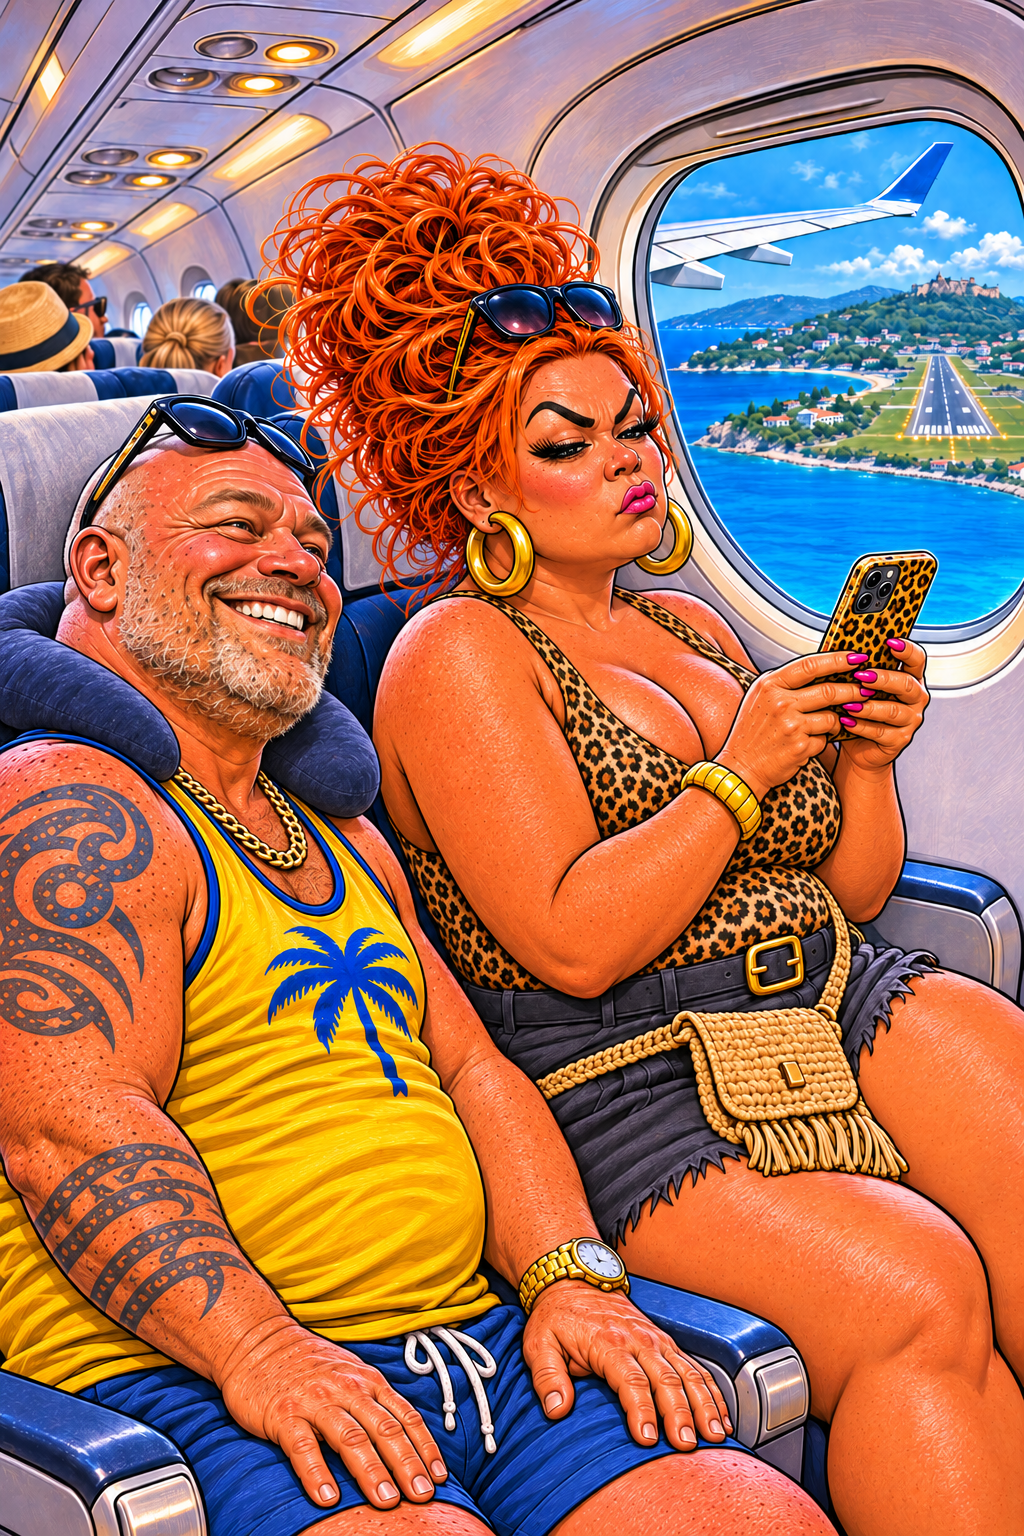
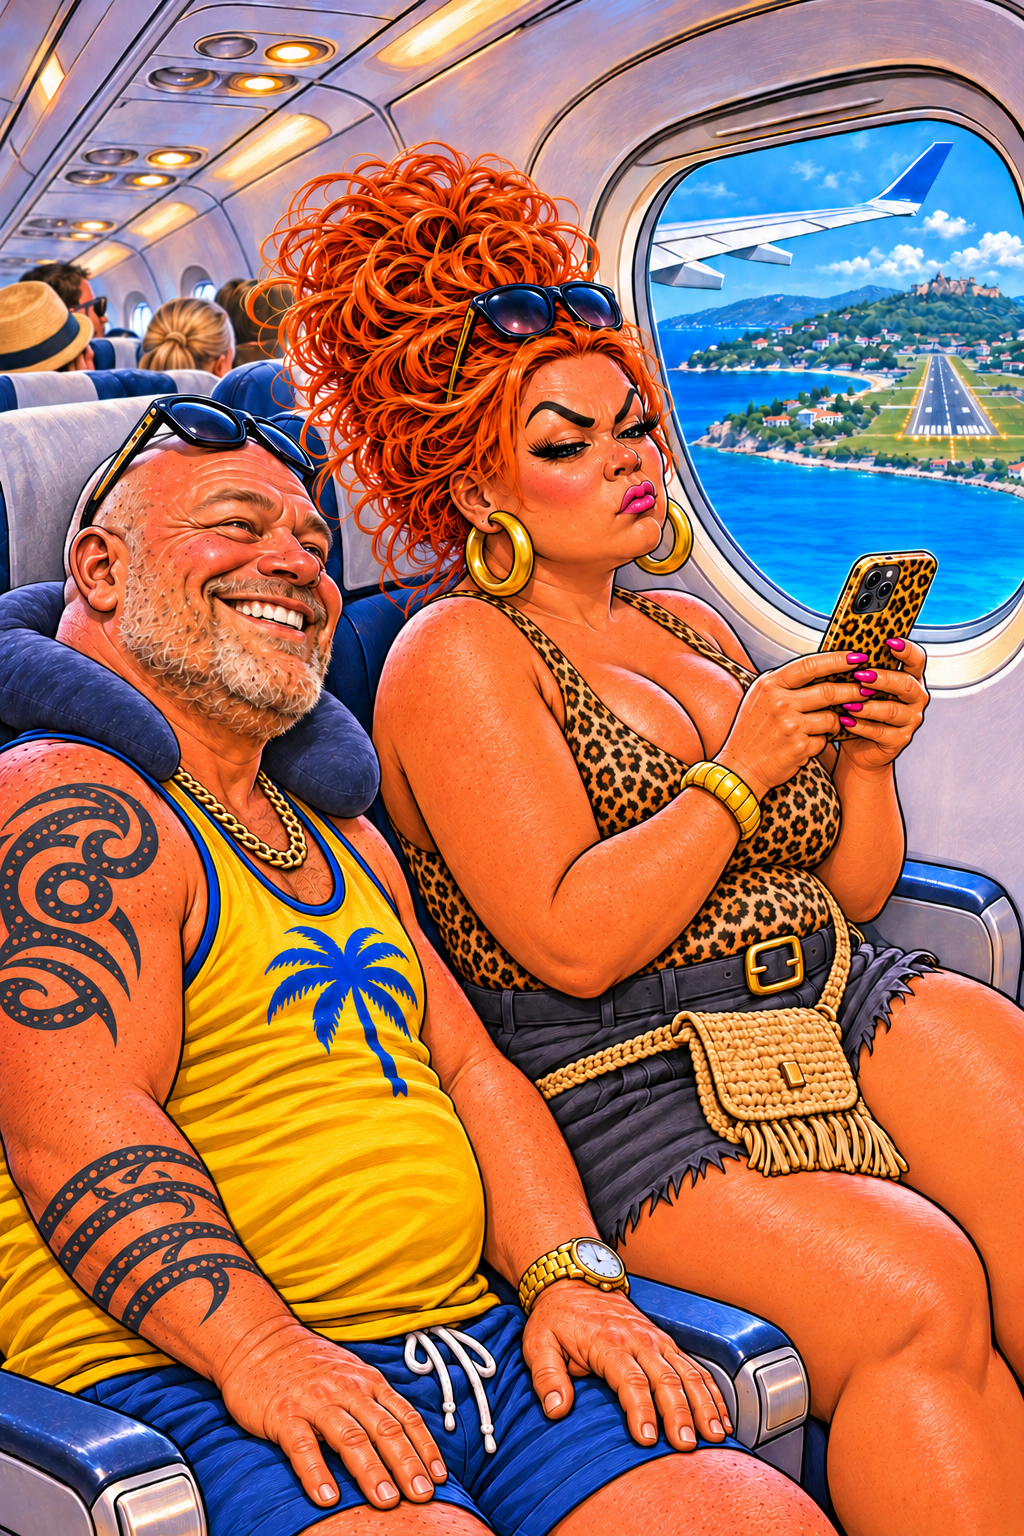
Keep Dave’s tattoos fixed and use the magnet only at the van

diff --git a/index.html b/index.html
@@ -56,8 +56,8 @@ button{font-family:inherit;cursor:pointer}
 .scene{position:relative;flex:1;min-height:0;overflow:hidden;container-type:size}
 .bg{position:absolute;inset:0}
 .gsign{position:absolute;left:18%;right:18%;top:17%;padding:5px 6px;background:#fff;border:3px solid var(--blue);border-radius:6px;text-align:center;color:var(--blue);font-weight:900;font-size:clamp(12px,3.6vw,17px);letter-spacing:.5px;box-shadow:0 3px 0 rgba(0,0,0,.15)}
-.player.bump{animation:bump .35s}
-.player.shake{animation:shake .4s}
+.player-actor.bump{animation:bump .35s}
+.player-actor.shake{animation:shake .4s}
 @keyframes bump{50%{transform:translateY(-12px) scale(1.03)}}
 @keyframes shake{20%,60%{transform:translateX(-8px)}40%,80%{transform:translateX(8px)}}
 
@@ -162,6 +162,20 @@ button{font-family:inherit;cursor:pointer}
   display:block;width:auto;height:100%;max-width:100%;object-fit:contain;object-position:center top;
   filter:drop-shadow(1px 2px 2px rgba(33,24,15,.26));
 }
+.actor.player-actor.dave-composite{
+  width:min(55%,calc(var(--figure-height) * .523));
+}
+.actor.dave-composite img{width:100%;height:auto;max-width:none}
+.dave-composite .dave-expression{
+  position:absolute;inset:0;
+  -webkit-mask-image:radial-gradient(ellipse 23% 13% at 54% 12%,#000 68%,transparent 100%);
+  mask-image:radial-gradient(ellipse 23% 13% at 54% 12%,#000 68%,transparent 100%);
+}
+#end .dave-composite{
+  position:relative;display:inline-block;vertical-align:top;
+  width:min(48%,150px);
+}
+#end .dave-composite img{width:100%;display:block}
 .actor.local{
   left:var(--local-x);top:calc(var(--head-top) + var(--local-drop));
   height:calc(var(--figure-height) * .88);max-width:45%;z-index:1;
@@ -247,7 +261,7 @@ button{font-family:inherit;cursor:pointer}
   <h1>Who are you playing as?</h1>
   <p class="sub" id="selectionNote">This decides whether you learn the man's or woman's form of Greek words.</p>
   <div class="cards">
-    <button class="card" data-c="m"><img src="assets/dave_full.webp" alt=""><div class="nm">Big Dave</div><div class="gr" lang="el">είμαι έτοιμος</div></button>
+    <button class="card" data-c="m"><img src="assets/dave_full_no_magnet.webp" alt=""><div class="nm">Big Dave</div><div class="gr" lang="el">είμαι έτοιμος</div></button>
     <button class="card" data-c="f"><img src="assets/sharon_full.webp" alt=""><div class="nm">Gobby Sharon</div><div class="gr" lang="el">είμαι έτοιμη</div></button>
   </div>
   <button class="btn play go" id="bGo" disabled style="opacity:.5">Let's go!</button>
@@ -271,7 +285,10 @@ button{font-family:inherit;cursor:pointer}
       <span class="airport-board"><span lang="el">ΕΞΟΔΟΣ</span><small>Exit</small></span>
     </div>
     <div class="cast" id="cast" hidden>
-      <div class="actor"><img class="player" id="player" alt=""></div>
+      <div class="actor player-actor" id="playerActor">
+        <img id="daveBody" alt="" hidden>
+        <img id="player" alt="">
+      </div>
       <div class="actor local" id="localActor"><img id="localFigure" alt=""></div>
       <div class="market-counter" aria-hidden="true"></div>
     </div>
@@ -408,7 +425,7 @@ const LOCAL_FIGURES={
 };
 let run, runKey, idx, speaker;
 const steps=[...STORY_STEPS,...CHALLENGE];
-const player=$("#player"), panel=$("#panel");
+const player=$("#player"), playerActor=$("#playerActor"), daveBody=$("#daveBody"), panel=$("#panel");
 const PLAYER_REACTIONS=["pleased","cringe","confused","shocked","talking","fuming"];
 const playerName=()=>S.c==="f"?"sharon":"dave";
 const playerPath=(expression="neutral")=>{
@@ -420,11 +437,15 @@ function react(animation,expression){
     const next=playerPath(expression);
     if(player.getAttribute("src")!==next)player.src=next;
   }
-  player.classList.remove("bump","shake");
-  if(animation){void player.offsetWidth;player.classList.add(animation)}
+  playerActor.classList.remove("bump","shake");
+  if(animation){void playerActor.offsetWidth;playerActor.classList.add(animation)}
 }
 function artPath(name){return name && GAME_ART.includes(name) ? `assets/${name}.webp` : ""}
 function startLesson(){
+  const isDave=S.c==="m";
+  playerActor.classList.toggle("dave-composite",isDave);
+  player.classList.toggle("dave-expression",isDave);
+  daveBody.hidden=!isDave;
   player.src=playerPath();
   for(const expression of PLAYER_REACTIONS){
     const image=new Image();
@@ -482,6 +503,10 @@ function render(){
     localFigure.classList.toggle("mirror",speaker!=="Spyros Rent-a-Van");
     $("#localActor").dataset.character=LOCAL_FIGURES[speaker].replace(/_full$/,"");
     localFigure.alt=speaker;
+  }
+  if(S.c==="m"){
+    const body=artPath(st.prop==="magnet"?"dave_full":"dave_full_no_magnet");
+    if(daveBody.getAttribute("src")!==body)daveBody.src=body;
   }
   react(null,st.kind==="meaning"?"confused":"neutral");
   updateTop();
@@ -844,7 +869,15 @@ function finish(){
   save();
   const w=$("#endWrap"), f=el("img","face");
   f.alt="";f.src=playerPath("pleased");
-  w.replaceChildren(el("h1",null,"Chapter 1 complete"),f,
+  let portrait=f;
+  if(S.c==="m"){
+    portrait=el("div","dave-composite");
+    const body=el("img");
+    body.alt="";body.src=artPath("dave_full_no_magnet");
+    f.className="dave-expression";
+    portrait.append(body,f);
+  }
+  w.replaceChildren(el("h1",null,"Chapter 1 complete"),portrait,
     el("div","score",`Greek challenge: ${"★".repeat(stars)}`),
     el("div","line",`Best · Dave ${starLabel("m")} · Sharon ${starLabel("f")}`),
     phraseList(Object.entries(S.phrases)));

diff --git a/chapter1.js b/chapter1.js
@@ -86,7 +86,7 @@ const CHAPTER={
       why:{m:"έτοιμος is the man's form. Sharon would say έτοιμη.",f:"έτοιμη is the woman's form. Dave would say έτοιμος."},
       badOptions:[{m:"Spyros holds the keys out to Sharon. Dave puts his hand up like he’s back at school.",f:"Spyros holds the keys out to Dave. Sharon intercepts them with one eyebrow."},{m:"Spyros offers Dave the chair. It’s the first thing Dave’s negotiated successfully all morning.",f:"Spyros points Sharon to a chair. She hands Dave the cases and takes the offer."}],
       learn:[{m:"Είμαι έτοιμος",f:"Είμαι έτοιμη"},"I'm ready"]},
-    {id:"legacy-19",t:"narr",text:"{P} slaps two Union Jack magnets on the van doors."},
+    {id:"legacy-19",t:"narr",prop:"magnet",text:"Dave holds up his Union Jack magnets. A minute later there’s one on each van door."},
     {id:"legacy-20",t:"q",kind:"meaning",gr:"Προσέξτε το βαν, σας παρακαλώ!",prompt:"What did Spyros just say?",
       opts:[{en:"Please be careful with the van!",ok:1},{en:"Please bring it back with a full tank!"},{en:"Please park it over there!"}],
       why:"Προσέξτε = be careful, watch out. On signs you'll see ΠΡΟΣΟΧΗ (caution).",

diff --git a/assets/chapter1-art.js b/assets/chapter1-art.js
@@ -1,2 +1,2 @@
 /* Generated by scripts/import-chapter1-art.py. */
-const GAME_ART = ["bg_apartment_kitchen", "bg_apartment_outside", "bg_minimarket", "bg_van_hire", "dave_full", "dave_full_confused", "dave_full_cringe", "dave_full_fuming", "dave_full_pleased", "dave_full_shocked", "dave_full_talking", "eleni_full", "fat_spyros_full", "fig", "intro_1_landing", "intro_2_baggage", "intro_3_arrivals", "kyrios_spyros_full", "sharon_full", "sharon_full_confused", "sharon_full_cringe", "sharon_full_fuming", "sharon_full_pleased", "sharon_full_shocked", "sharon_full_talking", "sharon_shocked", "spyros_van_full", "spyros_van_normal", "title_bg"];
+const GAME_ART = ["bg_apartment_kitchen", "bg_apartment_outside", "bg_minimarket", "bg_van_hire", "dave_full", "dave_full_confused", "dave_full_cringe", "dave_full_fuming", "dave_full_no_magnet", "dave_full_pleased", "dave_full_shocked", "dave_full_talking", "eleni_full", "fat_spyros_full", "fig", "intro_1_landing", "intro_2_baggage", "intro_3_arrivals", "kyrios_spyros_full", "sharon_full", "sharon_full_confused", "sharon_full_cringe", "sharon_full_fuming", "sharon_full_pleased", "sharon_full_shocked", "sharon_full_talking", "sharon_shocked", "spyros_van_full", "spyros_van_normal", "title_bg"];

diff --git a/sw.js b/sw.js
@@ -1,7 +1,7 @@
 importScripts("assets/chapter1-art.js");
 
 const PREFIX = "sidari-quest-";
-const CACHE = PREFIX + "playtest-v7";
+const CACHE = PREFIX + "playtest-v8";
 const SHELL = [
   "./", "index.html", "manifest.json", "chapter1.js", "progress.js",
   "icon-180.png", "icon-192.png", "icon-512.png", "assets/chapter1-art.js"

diff --git a/scripts/import-chapter1-art.py b/scripts/import-chapter1-art.py
@@ -35,7 +35,7 @@ def convert(path, name, size=None, transparent=False, bounds=(1024, 1536)):
         available.append(name)
 
 
-def convert_full_body(path, name, frame=None):
+def convert_full_body(path, name, frame=None, crop=None):
     if not path.is_file():
         return
     with Image.open(path) as master:
@@ -44,7 +44,11 @@ def convert_full_body(path, name, frame=None):
         if alpha.getextrema() != (0, 255):
             raise ValueError(f"{path}: needs transparent margins and an opaque figure")
         image.putalpha(alpha)
-        image = ImageOps.expand(image.crop(alpha.getbbox()), border=16)
+        if crop:
+            bounds = tuple(round(edge * image.size[i % 2]) for i, edge in enumerate(crop))
+        else:
+            bounds = alpha.getbbox()
+        image = ImageOps.expand(image.crop(bounds), border=16)
         if frame:
             image = image.resize(frame, Image.Resampling.LANCZOS)
         else:
@@ -76,6 +80,12 @@ for character in ("dave", "sharon"):
     name = f"{character}_full"
     path = approved / "characters" / f"{name}.png"
     frame = convert_full_body(path if path.is_file() else RAW / "characters" / path.name, name)
+    if character == "dave":
+        with Image.open(path if path.is_file() else RAW / "characters" / path.name) as original:
+            alpha = original.convert("RGBA").getchannel("A")
+            bounds = alpha.point(lambda n: 255 if n >= 8 else 0).getbbox()
+            crop = tuple(edge / original.size[i % 2] for i, edge in enumerate(bounds))
+        convert_full_body(approved / "characters/dave_full_no_magnet.png", "dave_full_no_magnet", frame, crop)
     for reaction in REACTIONS:
         name = f"{character}_full_{reaction}"
         convert_full_body(approved / "characters" / f"{name}.png", name, frame)

diff --git a/tests/playtest.py b/tests/playtest.py
@@ -76,6 +76,13 @@ def play(page, character, *, explore=False, help_on_challenge=False, replay=Fals
         assert page.evaluate("run.step") == step["id"]
         kind = step["t"]
         if page.locator("#cast").is_visible():
+            body = page.locator("#daveBody")
+            if character == "m":
+                expected = "assets/dave_full.webp" if step.get("prop") == "magnet" else "assets/dave_full_no_magnet.webp"
+                assert body.get_attribute("src") == expected
+                page.wait_for_function("document.querySelector('#daveBody').naturalWidth > 0")
+            else:
+                assert body.is_hidden()
             local = page.locator("#localFigure").get_attribute("alt")
             if local not in locals_seen:
                 page.wait_for_function("document.querySelector('#localFigure').naturalWidth > 0")
@@ -111,6 +118,9 @@ def play(page, character, *, explore=False, help_on_challenge=False, replay=Fals
         if kind == "q":
             if explore and step["phrase"] == "morning":
                 option(panel, "Καλή όρεξη!").tap()
+                if character == "m":
+                    assert body.get_attribute("src") == "assets/dave_full_no_magnet.webp"
+                    assert page.locator("#player").get_attribute("src") == "assets/dave_full_cringe.webp"
                 assert panel.get_by_text("YOU SAID: Enjoy your meal!", exact=True).is_visible()
                 assert panel.locator(".said-greek").inner_text() == "Καλή όρεξη!"
                 assert [x.split(" ", 1)[0] for x in panel.locator(".reaction-line").all_inner_texts()] == (

diff --git a/docs/CHAPTER1_ART_PRODUCTION.md b/docs/CHAPTER1_ART_PRODUCTION.md
@@ -4,7 +4,7 @@ The approved [title reference](../art/reference/style_reference_title_screen.png
 
 ## Full-body playtest
 
-Dialogue scenes use six intact full-body assets as the source for closer framing. The dialogue panel hides the lower bodies, and the mini-market counter sits in front of the shopkeeper. Dave uses his existing approved standing design. Sharon has a hands-free standing pose. Spyros Rent-a-Van, Kyria Eleni, Kyrios Spyros and Fat Spyros use the faces and visible clothing from their approved references, extended to full length. Wide location shots establish the setting before the characters move into the foreground for dialogue. Dave and Sharon swap to matching full-figure reactions for correct answers, mistakes and the van price reveal. Expression sprites use the same runtime dimensions as each neutral figure so the dialogue framing stays fixed.
+Dialogue scenes use six intact full-body assets as the source for closer framing. The dialogue panel hides the lower bodies, and the mini-market counter sits in front of the shopkeeper. Dave normally uses an empty-hand pose based on his approved standing design. He holds a Union Jack magnet when the van is being decorated. His shoulder spiral and separate forearm bands follow the standing reference in the plane panel. During dialogue, his body stays visible underneath the face-only expression layer, keeping the ink fixed when his expression changes. Sharon has a hands-free standing pose. Spyros Rent-a-Van, Kyria Eleni, Kyrios Spyros and Fat Spyros use the faces and visible clothing from their approved references, extended to full length. Wide location shots establish the setting before the characters move into the foreground for dialogue. Dave and Sharon swap to matching full-figure reactions for correct answers, mistakes and the van price reveal. Expression sprites use the same runtime dimensions as each neutral figure so the dialogue framing stays fixed.
 
 Original PNGs remain in place. New masters are under `art/raw/approved/`; run the importer to refresh the WebPs, remove nearly transparent edge noise, and add uniform padding. In Final Approach, Dave is awake with his hands resting on his knees and Sharon uses her phone for Duolingo. Cutscene avatars and the kitchen reactions reuse or follow the approved reaction pack. The title, baggage reclaim and arrivals panels show her with empty hands.
 
